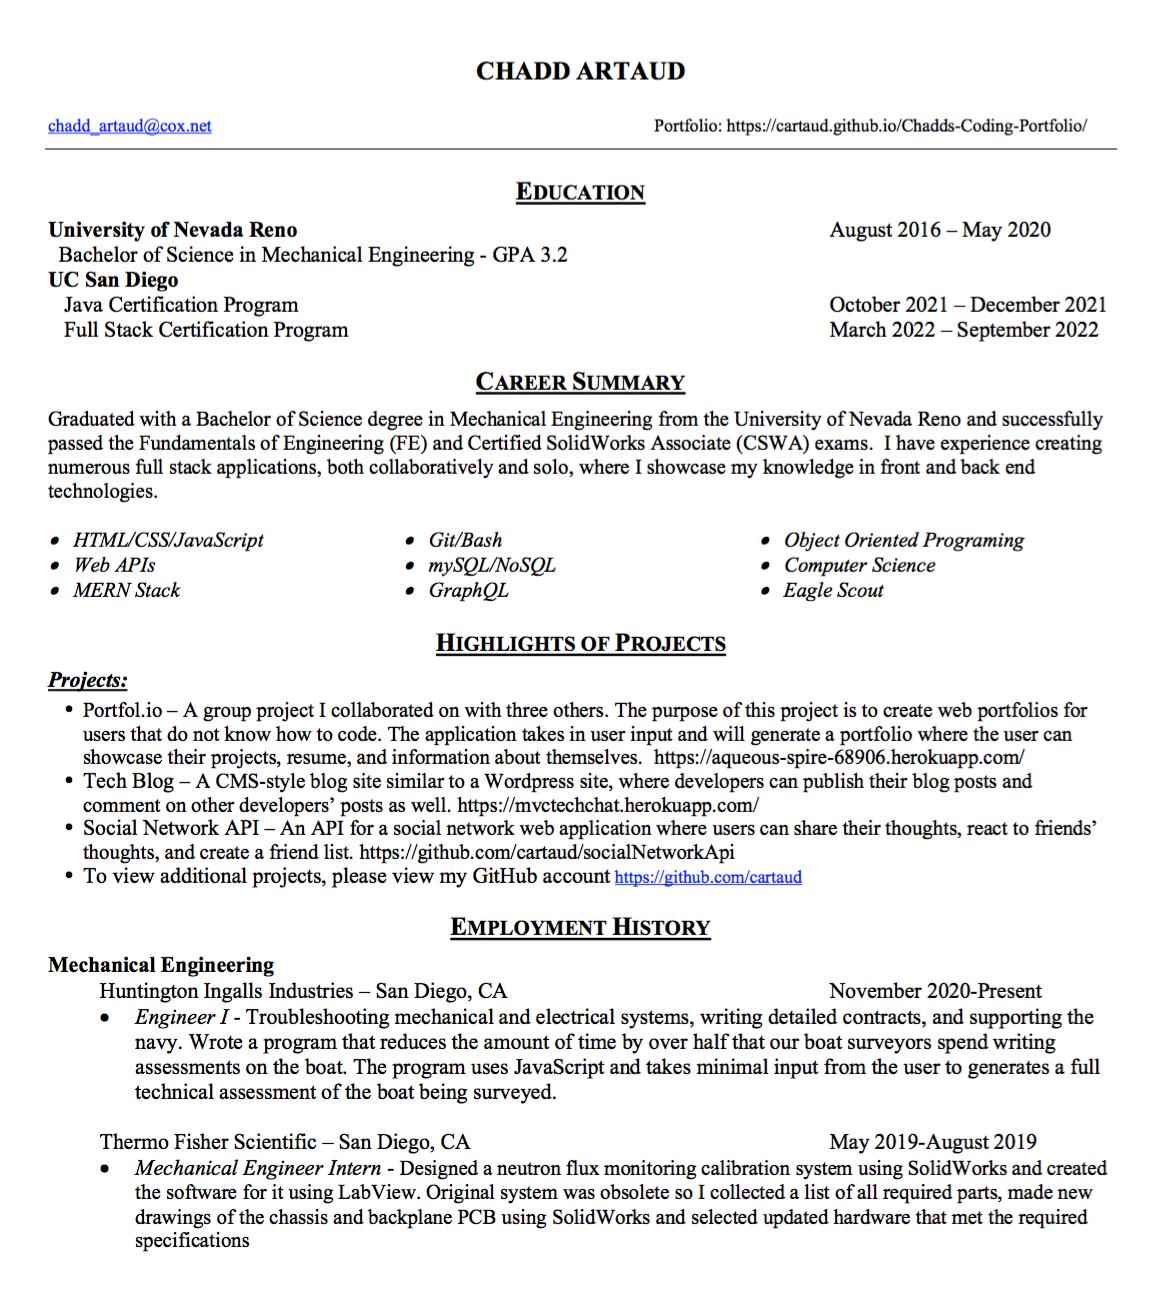
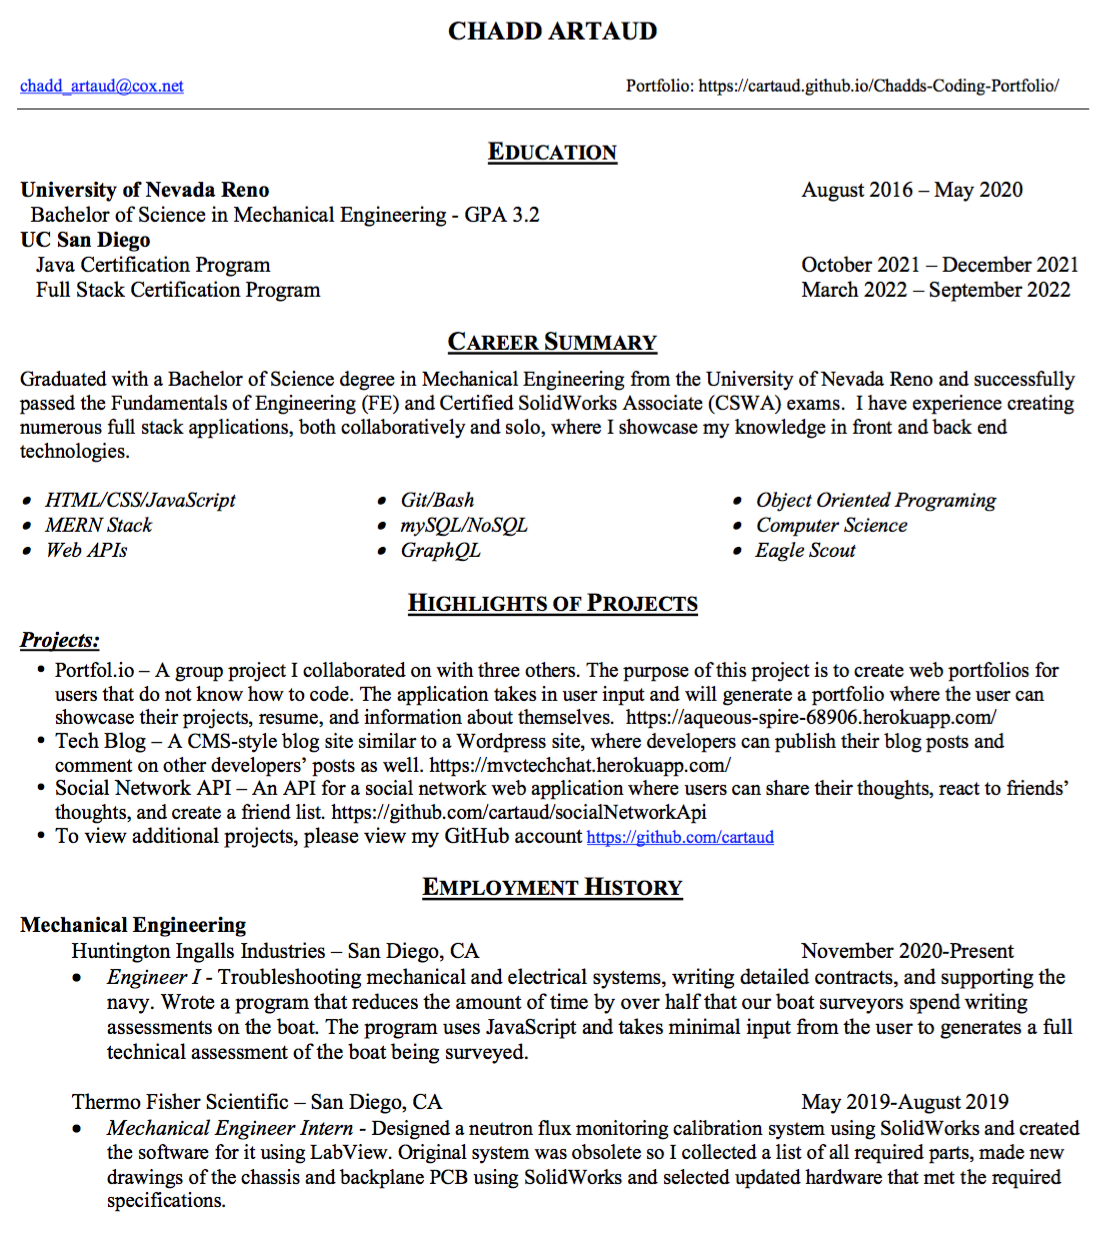
small changes to project descriptions and resume

Changed region(s): [[0.0, 0.4003, 0.9891, 0.9854], [0.0, 0.0, 0.9891, 0.4619], [0.6491, 0.4003, 0.8964, 0.4619]]

diff --git a/assets/js/script.js b/assets/js/script.js
@@ -146,7 +146,7 @@ const resumeTemplate = `
     <h2>CLICK THE IMAGE TO DOWNLOAD PDF</h2>
 </header>
 <div id='resume'>
-    <a href="https://drive.google.com/file/d/1Udy_tTqkliDoq768v7BR0G15tw3QaHBA/view?usp=sharing" target="_blank">
+    <a href="https://drive.google.com/file/d/1DFxCHSbkLI_6MChXdYyocgvT9ESyobuw/view?usp=sharing" target="_blank">
         <img src="./assets/images/resumePreview.png" alt="Resume">
     </a>
 </div>
@@ -206,7 +206,8 @@ const portfolIOClick = (x, bool) => {
         x.innerHTML = `
         <div class="project-click">
             <div class="project-description" id="io-des">
-            Application that allows a user to create modernized and responsive portfolio templates.  
+            Application that allows a user to create modernized and responsive portfolio templates. Mobile viewing is 
+            not available yet.  
             </div>
             <div class="project-buttons">
                 <a href="https://github.com/cartaud/Portfol.io" class="gitLink" target="_blank">GitHub</a>
@@ -255,7 +256,7 @@ const ecomClick = (x, bool) => {
         x.innerHTML = `
         <div class="project-click">
             <div class="project-description" id="ecom-des">
-            The back end for an e-commerce site.
+            The back end for an e-commerce site. For a demonstration on how it works, click on the Demo button below.
             </div>
             <div class="project-buttons">
                 <a href="https://github.com/cartaud/E-CommerceBackEnd" class="gitLink" target="_blank">GitHub</a>
@@ -279,7 +280,7 @@ const etchClick = (x, bool) => {
         x.innerHTML = `
         <div class="project-click">
             <div class="project-description" id="etch-des">
-            Draw whatever you want using the custom color pallet or go crazy with rainbow mode.
+            Draw whatever you want using the custom color pallet or go crazy with rainbow mode. Mouse required.
             </div>
             <div class="project-buttons">
                 <a href="https://github.com/cartaud/etch-a-sketch" class="gitLink" target="_blank">GitHub</a>
